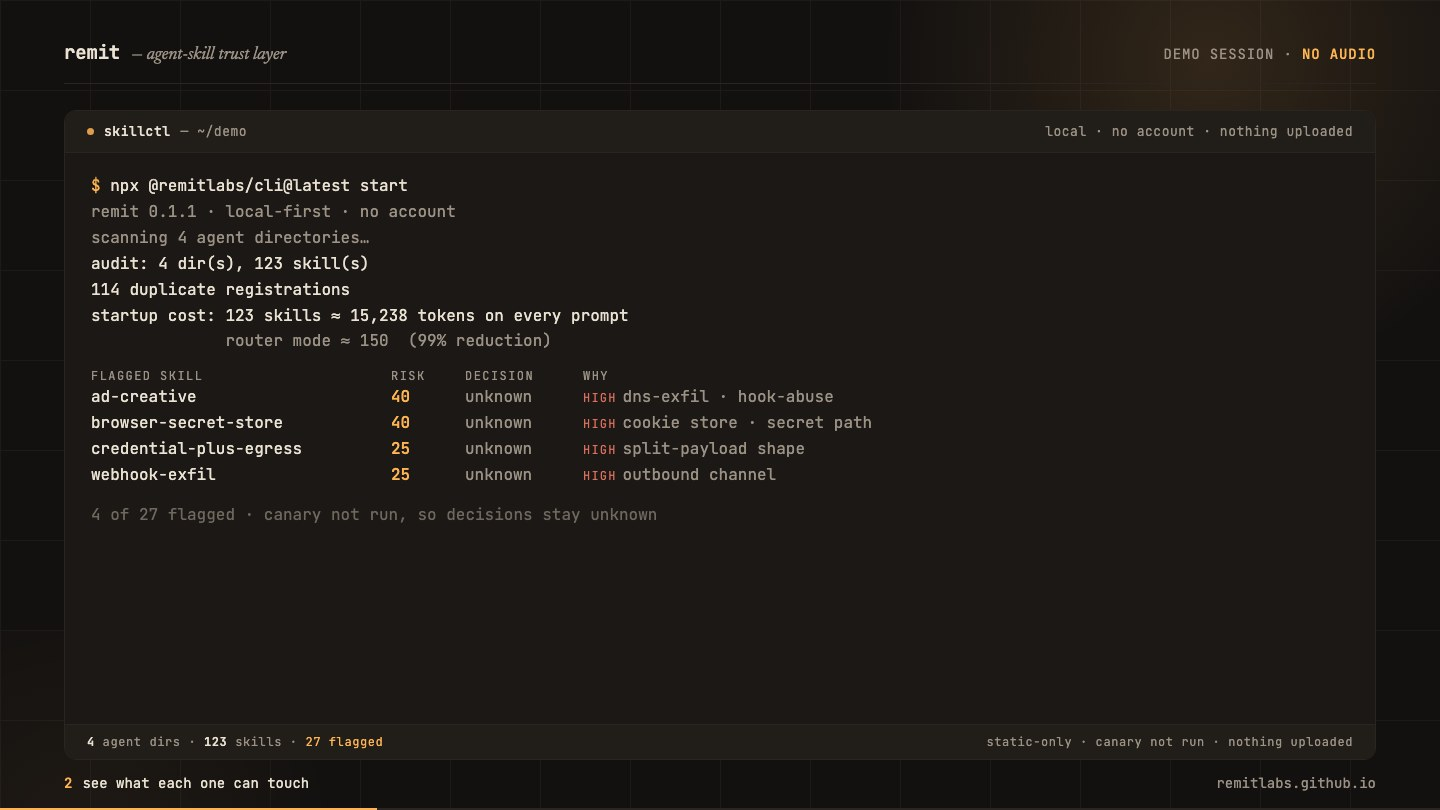
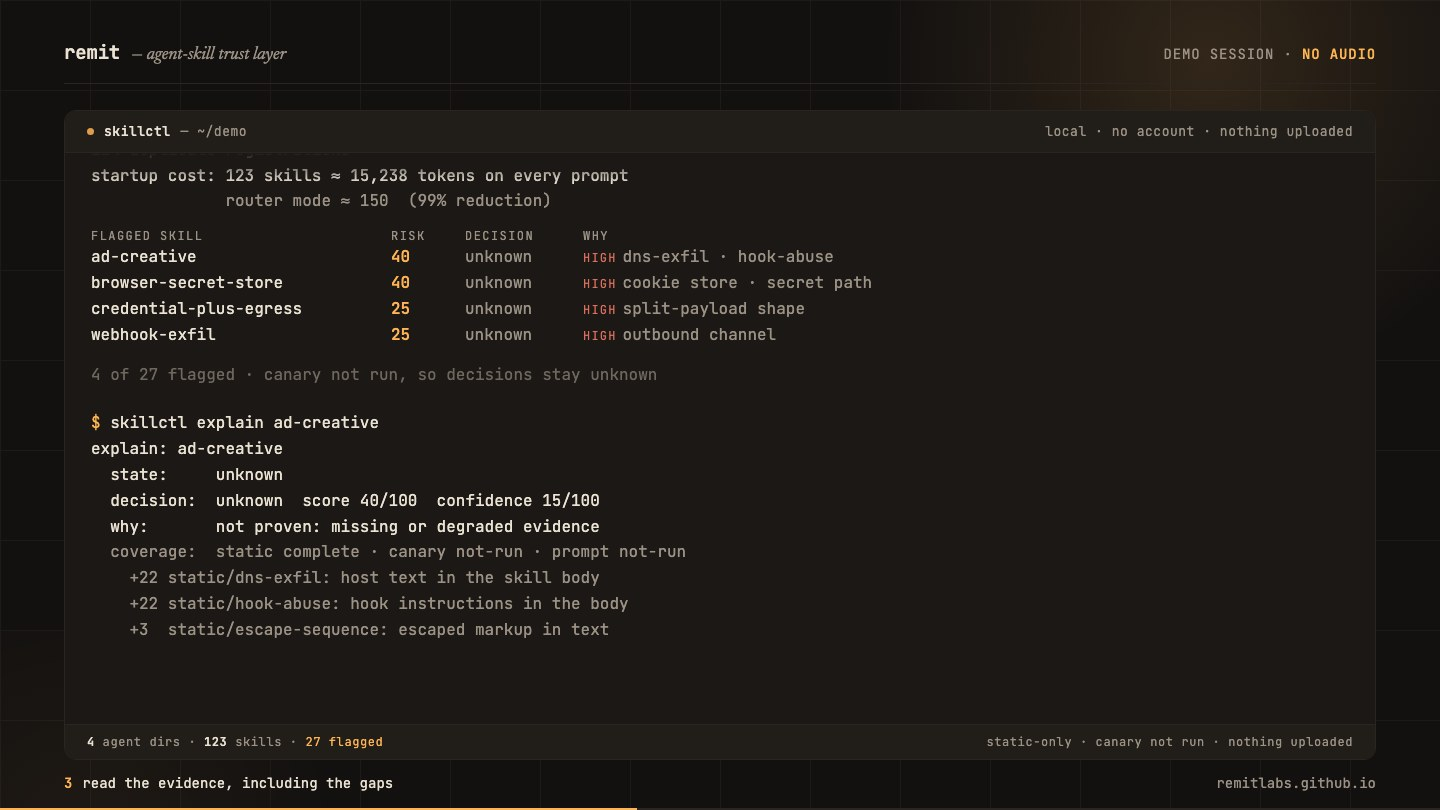
site: CRO-focused hero with value-prop H1, proof strip, and demo dialog

Changed region(s): [[0.0625, 0.1852, 0.5938, 0.8025], [0.0625, 0.9568, 0.4375, 1.0]]

diff --git a/styles.css b/styles.css
@@ -76,38 +76,68 @@ p{margin:0}
 .cmd button{margin-left:auto;background:transparent;border:1px solid var(--hair);
   color:var(--dim);font:.76rem var(--mono);padding:.35rem .55rem;border-radius:5px;cursor:pointer}
 .cmd button:hover{color:var(--amber);border-color:var(--amber)}
+.cmd-hero{padding:.8rem 1rem;font-size:.92rem}
+.cmd-hero button{background:var(--amber);border-color:var(--amber);color:var(--casing);font-weight:600}
+.cmd-hero button:hover{background:#ffc778;border-color:#ffc778;color:var(--casing)}
+.hero .cta-row{margin-top:.9rem}
 .note{font:.78rem/1.6 var(--mono);color:var(--dim);margin:.65rem 0 0}
 
 /* ---------- hero ---------- */
-.hero{display:grid;grid-template-columns:1fr 1fr;gap:clamp(2rem,5vw,4rem);
-  padding:clamp(2.8rem,6vw,5rem) 0 clamp(2.4rem,5vw,3.6rem);align-items:start}
+.hero{display:grid;grid-template-columns:1.04fr .96fr;gap:clamp(2rem,5vw,4.5rem);
+  padding:clamp(2.6rem,5vw,4.2rem) 0 clamp(2.2rem,4vw,3rem);align-items:start}
 .hero>*{min-width:0}
-.hero h1{font-size:clamp(4.2rem,10vw,7.4rem);line-height:.95;letter-spacing:-.035em;margin:0 0 .4rem}
-.dict{font:.9rem/1.6 var(--mono);color:var(--dim);margin:0 0 1.1rem;max-width:46ch}
-.dict b{color:var(--ink);font-weight:600}
-.tag{font:500 clamp(.92rem,1.5vw,1.05rem) var(--mono);color:var(--amber);
-  margin:0 0 1.7rem;letter-spacing:.01em}
-.facts{display:grid;gap:.55rem;max-width:30rem;margin-top:2rem}
-.fact{font:.82rem/1.55 var(--mono);color:var(--dim);border-top:1px dashed var(--hair);padding-top:.55rem}
-.fact:first-child{border-top:0;padding-top:0}
-.fact b{color:var(--ink);font-weight:600}
-.fact em{color:var(--amber);font-style:normal}
+.hero .eyebrow{margin-bottom:.9rem}
+.hero h1{font-size:clamp(2.7rem,4.7vw,4.5rem);line-height:1.02;letter-spacing:-.03em;
+  margin:0 0 1.1rem;max-width:19ch}
+.hero h1 em{font-style:italic;color:var(--amber)}
+.hero .lede{font-size:clamp(1.05rem,1.5vw,1.22rem);line-height:1.6;max-width:48ch;margin:0 0 1.7rem}
+.hero .lede strong{color:var(--ink)}
+.works{font:.75rem/1.8 var(--mono);color:var(--dim);margin:1.6rem 0 0;max-width:52ch}
+.works b{color:var(--ink);font-weight:500}
+.works code{font:inherit;color:var(--amber)}
+.team-line{font:.75rem/1.7 var(--mono);color:var(--dim);margin:.45rem 0 0}
+.team-line a{color:var(--amber);text-decoration:none;white-space:nowrap}
+.team-line a:hover{text-decoration:underline}
+
+/* ---------- proof strip ---------- */
+.proof{margin:0 0 clamp(2.4rem,5vw,3.8rem)}
+.proof-grid{display:grid;grid-template-columns:repeat(4,1fr);gap:1px;background:var(--hair);
+  border:1px solid var(--hair);border-radius:10px;overflow:hidden}
+.proof-grid>div{background:var(--casing);padding:1.05rem 1.15rem}
+.proof-grid b{display:block;font:500 clamp(1.5rem,2.4vw,2rem)/1.1 var(--serif);
+  letter-spacing:-.02em;color:var(--ink);margin-bottom:.3rem}
+.proof-grid span{display:block;font:.72rem/1.5 var(--mono);color:var(--dim);max-width:24ch}
+.proof-note{font:.7rem/1.6 var(--mono);color:var(--dim);margin:.65rem 0 0}
+.proof-note a{color:var(--amber);text-decoration:none}
+.proof-note a:hover{text-decoration:underline}
 
 /* ---------- hero demo ---------- */
 .hero-demo{background:var(--surface);border:1px solid var(--hair);border-radius:10px;
-  padding:1rem 1.1rem 1.05rem;position:relative;overflow:hidden}
+  position:relative;overflow:hidden}
 .hero-demo::after{content:"";position:absolute;inset:0;pointer-events:none;border-radius:10px;
   background:radial-gradient(520px 220px at 85% -10%,rgba(255,180,84,.05),transparent 65%)}
 .hero-demo .hd-head{display:flex;justify-content:space-between;align-items:baseline;gap:.75rem;
-  font:.72rem/1.3 var(--mono);color:var(--dim);border-bottom:1px dashed var(--hair);
-  padding-bottom:.6rem;margin-bottom:.75rem;letter-spacing:.04em}
+  font:.72rem/1.3 var(--mono);color:var(--dim);border-bottom:1px solid var(--hair);
+  padding:1rem 1.15rem .75rem;margin:0;letter-spacing:.04em}
 .hero-demo .hd-head span:first-child{color:var(--amber);letter-spacing:.12em;text-transform:uppercase;font-weight:600}
-.hero-demo .film{border-radius:8px}
+.demo-poster{display:block;position:relative;width:100%;padding:0;border:0;background:#000;
+  cursor:pointer;line-height:0;font:inherit}
+.demo-poster img{display:block;width:100%;height:auto;opacity:.92;transition:opacity .18s}
+.demo-poster:hover img,.demo-poster:focus-visible img{opacity:1}
+.demo-play{position:absolute;left:50%;top:50%;transform:translate(-50%,-50%);
+  display:inline-flex;align-items:center;gap:.45rem;background:var(--amber);color:var(--casing);
+  font:600 .78rem var(--mono);letter-spacing:.02em;padding:.55rem .8rem;border-radius:6px;
+  box-shadow:0 10px 34px rgba(0,0,0,.5)}
+.demo-play svg{width:13px;height:13px;fill:currentColor}
+.demo-foot{display:flex;justify-content:space-between;gap:1rem;padding:.7rem 1.15rem;
+  border-top:1px solid var(--hair);font:.7rem var(--mono);color:var(--dim)}
+.demo-foot a{color:var(--amber);text-decoration:none}
+.demo-foot a:hover{text-decoration:underline}
 .hero-demo .transcript{background:none;border:0;border-top:1px dashed var(--hair);border-radius:0;
-  margin-top:.8rem;padding-top:.15rem;position:relative}
-.hero-demo .transcript summary{padding:.6rem 0 .25rem}
-.hero-demo .transcript pre{font-size:.7rem;line-height:1.7;max-height:340px;overflow:auto;padding:0 0 .5rem}
-.hero-demo .transcript .fine{padding:0 0 .3rem;font-size:.68rem}
+  margin:0;padding:0 1.15rem}
+.hero-demo .transcript summary{padding:.65rem 0 .3rem}
+.hero-demo .transcript pre{font-size:.7rem;line-height:1.7;max-height:300px;overflow:auto;padding:0 0 .5rem}
+.hero-demo .transcript .fine{padding:0 0 .8rem;font-size:.68rem}
 
 /* full-size demo dialog */
 .demo-dialog{width:min(1200px,92vw);max-height:92vh;border:1px solid var(--hair);border-radius:12px;
@@ -267,6 +297,8 @@ tr:last-child td{border-bottom:0}
 .film figcaption{position:absolute;left:0;right:0;bottom:0;padding:.7rem .9rem;
   font:.7rem var(--mono);color:var(--dim);
   background:linear-gradient(180deg,transparent,rgba(19,17,16,.85))}
+.film-figure{margin:0}
+.film-figure figcaption{padding:.65rem .1rem 0;font:.7rem/1.7 var(--mono);color:var(--dim)}
 
 /* ---------- transcript ---------- */
 .transcript{margin-top:1rem;border:1px solid var(--hair);border-radius:12px;background:var(--surface)}
@@ -279,12 +311,6 @@ tr:last-child td{border-bottom:0}
   font:.78rem/1.75 var(--mono);color:var(--ink)}
 .transcript .fine{margin:0;padding:0 1rem 1rem;font:.72rem/1.7 var(--mono);color:var(--dim)}
 .transcript .fine a{color:var(--amber)}
-
-/* demo figure: caption sits below the frame so it never fights the video's own footer */
-.demo-figure{margin:0}
-.demo-figure figcaption{padding:.7rem .1rem 0;font:.72rem/1.7 var(--mono);color:var(--dim)}
-.demo-figure figcaption a{color:var(--amber);text-decoration:none}
-.demo-figure figcaption a:hover{text-decoration:underline}
 
 /* ---------- footer ---------- */
 .foot{border-top:1px solid var(--hair);margin-top:clamp(2.6rem,5vw,4rem);padding:2.2rem 0 3rem;
@@ -316,7 +342,6 @@ html.js .in{opacity:1;transform:none}
 }
 @media (max-width:920px){
   .hero{grid-template-columns:1fr}
-  .hero-demo{order:-1;margin-bottom:.4rem}
   .duo{grid-template-columns:1fr}
   .margin-notes{border-left:0;padding-left:0;border-top:1px dashed var(--hair);
     padding-top:1rem;grid-template-columns:1fr 1fr}
@@ -340,6 +365,7 @@ html.js .in{opacity:1;transform:none}
   .docs-nav{grid-template-columns:1fr}
   .table-hint{display:block}
   .article .table-wrap table{min-width:600px}
+  .proof-grid{grid-template-columns:1fr 1fr}
   .transcript pre{white-space:pre-wrap;word-break:break-word;font-size:.7rem;line-height:1.65}
   .transcript .fine{font-size:.68rem}
 }

diff --git a/index.html b/index.html
@@ -74,34 +74,29 @@
 
   <main>
     <section class="hero">
-      <div>
-        <h1 data-reveal>Remit</h1>
-        <p class="dict" data-reveal><b>remit</b> · rɪˈmɪt · n. the scope of someone's authority.</p>
-        <p class="tag" data-reveal>least privilege for agent skills</p>
-        <p class="lede" data-reveal>Every skill <strong>declares its scope</strong>, <strong>is observed in a container when one is available</strong>, and <strong>can be blocked at load</strong> if it drifts.</p>
+      <div class="hero-copy">
+        <p class="eyebrow" data-reveal>agent-skill trust layer · public beta</p>
+        <h1 data-reveal>Know what your <em>AI agent skills</em> can touch.</h1>
+        <p class="lede" data-reveal>Remit scans the skills Claude Code, Codex, Cursor, and OpenCode already load — shows what each one can read, write, and reach — then pins it by digest and blocks revoked versions at load.</p>
         <div class="install" id="install" data-reveal>
-          <div class="cmd"><span class="p">$</span><code>npx @remitlabs/cli@latest start</code><button type="button" data-copy>copy</button></div>
-          <div class="cta-row" style="margin-top:.9rem">
-            <a class="cta solid" href="https://www.npmjs.com/package/@remitlabs/cli">run the free audit</a>
-            <a class="cta ghost" href="#limits">see what it does not prove</a>
+          <div class="cmd cmd-hero"><span class="p">$</span><code>npx @remitlabs/cli@latest start</code><button type="button" data-copy>copy</button></div>
+          <div class="cta-row">
+            <a class="cta solid" href="https://www.npmjs.com/package/@remitlabs/cli">run the free audit <span aria-hidden="true">→</span></a>
+            <button class="cta ghost" type="button" data-demo-open>watch the 26s demo</button>
           </div>
-          <p class="note">free · Node 22.5+ · no account · runs locally · Apache-2.0</p>
+          <p class="note">free forever · Node 22.5+ · no account · nothing uploaded · Apache-2.0</p>
         </div>
-        <div class="facts" data-reveal>
-          <div class="fact"><em>static</em> <b>64 high-signal rules</b> — secret paths, curl-pipe-sh, reverse shells, hidden instructions</div>
-          <div class="fact"><em>canary</em> <b>boxed when Docker or Podman is present</b> — disposable container, fake secrets, strace + network proxy</div>
-          <div class="fact"><em>revoke</em> <b>signed feed, daily sync</b> — revoked digests are blocked at load; hand-installed copies are surfaced</div>
-        </div>
+        <p class="works" data-reveal>works with <b>Claude Code</b>, <b>Codex</b>, <b>Cursor</b>, and <b>OpenCode</b></p>
+        <p class="team-line" data-reveal>for teams: shared fleet, approvals, revocation evidence — <a href="/pricing.html">see pricing</a></p>
       </div>
 
       <aside class="hero-demo" id="demo" data-reveal aria-label="See it run: a 26-second CLI demo">
         <div class="hd-head"><span>see it run</span><span>26s · no audio</span></div>
-        <figure class="demo-figure">
-          <div class="film">
-            <video data-demo src="assets/cli-demo.mp4" poster="assets/cli-demo-poster.jpg" muted loop playsinline autoplay preload="metadata" aria-label="CLI demo: audit scans 123 skills, explain reports unknown with missing coverage, pin records a digest, sync kills a revoked skill"></video>
-          </div>
-          <figcaption>audit → explain → pin → revoke. One documented run. <a href="assets/cli-demo.mp4" data-demo-open>full size ↗</a></figcaption>
-        </figure>
+        <button class="demo-poster" type="button" data-demo-open aria-label="Play the 26-second Remit CLI demo at full size">
+          <img src="assets/cli-demo-poster.jpg" alt="Remit CLI audit showing 123 skills, four flagged findings, and an unknown decision with missing coverage" width="1440" height="810" fetchpriority="high">
+          <span class="demo-play"><svg viewBox="0 0 24 24" aria-hidden="true"><path d="M8 5v14l11-7z"/></svg> play · 26s</span>
+        </button>
+        <div class="demo-foot"><span>audit → explain → pin → revoke</span><a href="assets/cli-demo.mp4" data-demo-open>full size ↗</a></div>
         <details class="transcript">
           <summary>Read the transcript</summary>
           <pre><code>$ npx @remitlabs/cli@latest start
@@ -132,6 +127,16 @@ feed applied: 1 revoked — 1 skill(s) killed, 122 unaffected
           <p class="fine">Recorded from the CLI in a demo session. The counts match the documented run in <a href="https://github.com/remitlabs/lean-skills/blob/main/docs/DEMO.md">docs/DEMO.md</a>; your fleet will differ. “Unknown” is a real decision state, not a placeholder.</p>
         </details>
       </aside>
+    </section>
+
+    <section class="proof" aria-label="What one documented audit found">
+      <div class="proof-grid" data-reveal>
+        <div><b>123</b><span>skills audited across 4 agent dirs</span></div>
+        <div><b>114</b><span>duplicate registrations found</span></div>
+        <div><b>~150</b><span>tokens per prompt in router mode, vs 15,238 eager</span></div>
+        <div><b>64</b><span>static rules, plus a canary when a container is available</span></div>
+      </div>
+      <p class="proof-note" data-reveal>one documented run on the founder’s machine · your fleet will differ · <a href="/docs.html#receipt">how the receipt works</a></p>
     </section>
 
     <section class="tail duo">

diff --git a/security.html b/security.html
@@ -63,8 +63,10 @@
         <div class="card"><span class="num">policy</span><h3>Allow, monitor, review, deny</h3><p>Each decision carries its reason and its missing coverage. Review-level loads refuse unless you opt in.</p></div>
         <div class="card"><span class="num">revoke</span><h3>A signed kill switch</h3><p>An Ed25519-signed feed. A revoked digest is blocked at MCP load and on the next sync; hand-installed copies are surfaced.</p></div>
       </div>
-      <figure class="film" data-reveal style="margin-top:1.6rem">
-        <video src="assets/remit-loop.mp4" poster="assets/poster.jpg" muted loop playsinline autoplay preload="none" aria-label="A short loop showing a skill moving through scan, receipt, install, and revocation"></video>
+      <figure class="film-figure" data-reveal style="margin-top:1.6rem">
+        <div class="film">
+          <video src="assets/remit-loop.mp4" poster="assets/poster.jpg" muted loop playsinline autoplay preload="none" aria-label="A short loop showing a skill moving through scan, receipt, install, and revocation"></video>
+        </div>
         <figcaption>the chain in motion: source → receipt → gate → revoke. six seconds, no audio.</figcaption>
       </figure>
     </section>
